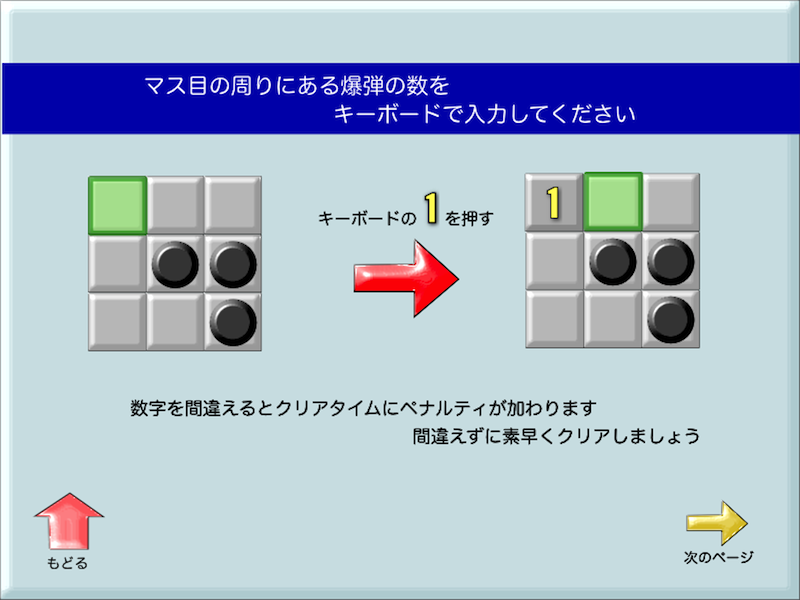
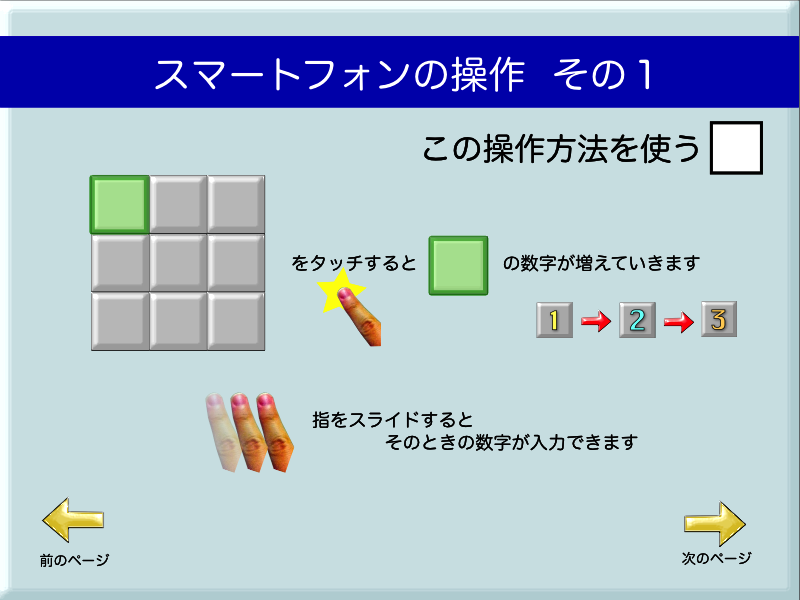
遊び方のページめくり

diff --git a/mine.js b/mine.js
@@ -31,9 +31,9 @@ var Game = Class.create(Core, {
 			'miss.mp3',
 			'open.mp3',
 			'start.mp3',
+			'howto0.png',
 			'howto1.png',
-			'howto2.png',
-			'howto3.png'
+			'howto2.png'
 		];
 		for(var i = 0; i < preloads.length; i++) {
 			this.preload(preloads[i]);
@@ -79,9 +79,22 @@ var Game = Class.create(Core, {
 	 * @function
 	 */
 	showHowto: function() {
-		var sprite = new Sprite(800, 600);
-		sprite.image = game.assets['howto1.png'];
-		game.currentScene.addChild(sprite);
+		var pages = [];
+		
+		// ページの作成
+		for(var i = 0; i < 3; i++) {
+			var page = new Sprite(game.width, game.height);
+			page.image = game.assets['howto' + i + '.png'];
+			page.addEventListener(Event.TOUCH_START, function() {
+				this.tl.moveTo(-game.width, 0, 6).removeFromScene();
+			});
+			pages.push(page);
+		}
+		
+		// ページの表示
+		for(var i = 2; i >= 0; i--) {
+			game.currentScene.addChild(pages[i]);
+		}
 	},
 	
 	/**
